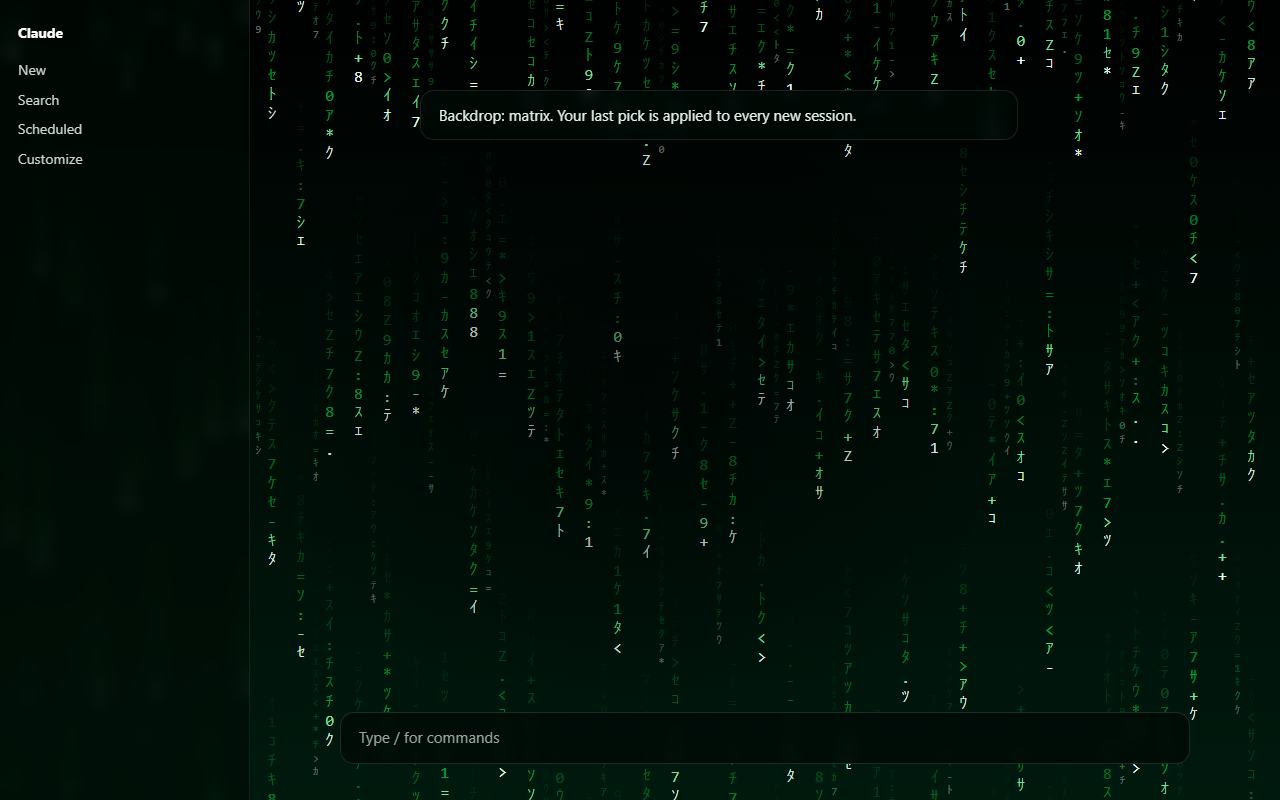
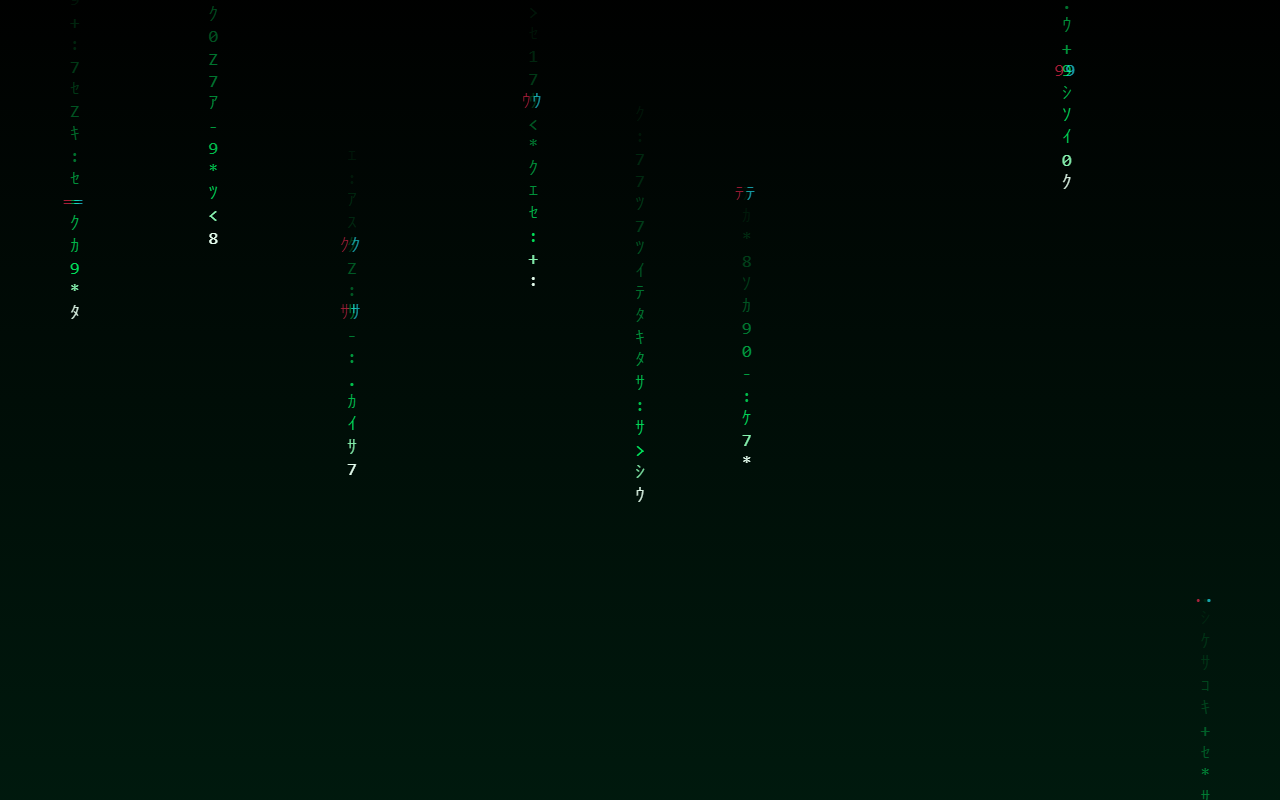
Matrix: CSS-driven falling streams, swap glitch, streams/glitch settings (0.3.0)

diff --git a/hooks/scenes.ts b/hooks/scenes.ts
@@ -114,92 +114,89 @@ ${embers.join('')}
 /* ───────────────────────────── MATRIX ───────────────────────────── */
 // A wide canvas, so a desktop window shows the whole field of code, not a magnified slice.
 // No scanlines, scan beam or tear bars: only falling code.
-export function matrix(swap = 0.2, seconds = 2): (tick: number) => string {
+export type Glitch = 'off' | 'low' | 'medium' | 'high'
+// How far the red and cyan ghosts sit from a character that has just swapped (px), and how long they last (s).
+const GLITCH = { low: [3, 0.4], medium: [5, 0.6], high: [8, 0.9] } as const
+const esc = (g: string) => (g === '<' ? '&lt;' : g === '>' ? '&gt;' : g)
+const hash = (n: number) => {
+  let x = Math.imul(n ^ 0x9e3779b9, 0x85ebca6b)
+  x ^= x >>> 13
+  x = Math.imul(x, 0xc2b2ae35)
+  x ^= x >>> 16
+  return (x >>> 0) / 4294967296
+}
+
+// A handful of code streams fall down the left, centre and right, and the picture animates
+// itself with CSS: nothing redraws it. A swap is a short cross-fade and, with glitch on, a red
+// and a cyan ghost that fade out within a fraction of a second.
+export function matrix(swap = 0.2, seconds = 2, glitch: Glitch = 'off', perZone = 3): string {
   const r = rng(5)
   const pool = [...'01ｱｲｳｴｵｶｷｸｹｺｻｼｽｾｿﾀﾁﾂﾃﾄ789Z:.=*+-<>']
-  const OP = ['.06', '.1', '.16', '.24', '.34', '.46', '.6', '.78']
+  const OP = ['.08', '.14', '.22', '.32', '.45', '.6', '.75', '.88']
   const W = 1200
   const H = 800
-  const SWAP = swap // share of body characters that change
-  const PHASES = Math.max(1, Math.round(seconds * 2)) // a tick is 500 ms, so each swapper changes every `seconds`, staggered
-  const GLYPHS = 8
+  const SIZE = 17
+  const STEP = SIZE + 4
+  const VARIANTS = 3 // glyphs a swapping cell cycles through
+  const PHASES = 5 // swaps are spread over this many moments in a cycle
+  const CYCLE = VARIANTS * seconds
+  const fade = Math.min(0.15, seconds / 4)
+  const fadeP = (fade / CYCLE) * 100
+  const winP = 100 / VARIANTS
+  const [offset, ghostSeconds] = glitch === 'off' ? [0, 0] : GLITCH[glitch]
+  const ghostP = (ghostSeconds / CYCLE) * 100
+  const attrs = `font-family="monospace" font-size="${SIZE}" text-anchor="middle"`
+  const pick = () => pool[Math.floor(r() * pool.length)]!
 
-  type Cell = { ch: string; fill: string; op: string; seq?: string[]; phase?: number }
-  type Column = { x: number; size: number; base: number; dim: number; cells: Cell[] }
+  // Left, centre and right: evenly spread inside each zone.
+  const spread = (from: number, to: number, n: number) => Array.from({ length: n }, (_, i) => Math.round(n === 1 ? (from + to) / 2 : from + ((to - from) * i) / (n - 1)))
+  const xs = [...spread(70, 330, perZone), ...spread(500, 700, perZone), ...spread(870, 1130, perZone)]
 
-  const col = (x: number, size: number, len: number, dim: number, swap: number, base: number): Column => {
-    const cells: Cell[] = []
+  let body = ''
+  xs.forEach((x, ci) => {
+    const len = 12 + Math.floor(r() * 7)
+    const fall = 10 + r() * 8 // seconds for one trip down the screen
+    const delay = -r() * fall
+    let still = ''
+    let swaps = ''
+    let ghosts = ''
     for (let i = 0; i < len; i++) {
-      let fill = '#00ff66'
-      let op = OP[Math.min(7, Math.floor((i / (len - 1)) * 8))]
-      if (i === len - 1) {
-        fill = '#e6fff0'
-        op = '1'
-      } else if (i === len - 2) {
-        fill = '#8dffb8'
-        op = '.9'
+      const y = i * STEP
+      const head = i === len - 1
+      const op = head ? '1' : i === len - 2 ? '.95' : OP[Math.min(7, Math.floor((i / (len - 2)) * 8))]!
+      const fill = head ? '#e6fff0' : i === len - 2 ? '#8dffb8' : '#00ff66'
+      if (!head && i < len - 2 && r() < swap) {
+        const phase = Math.floor(hash(ci * 977 + i * 13) * PHASES)
+        for (let v = 0; v < VARIANTS; v++) {
+          const g = esc(pick())
+          const d = (((v * seconds + (phase * seconds) / PHASES) % CYCLE) - CYCLE).toFixed(3)
+          swaps += `<text class="m" style="animation-delay:${d}s" x="${x}" y="${y}" fill="#00ff66" fill-opacity="${op}" ${attrs}>${g}</text>`
+          if (offset) {
+            // One element per ghost, red to the left and cyan to the right, so there are fewer things to animate.
+            ghosts += `<text class="g" style="animation-delay:${d}s" y="${y}" ${attrs}><tspan x="${x - offset}" fill="#ff2a55">${g}</tspan><tspan x="${x + offset}" fill="#22f0ff">${g}</tspan></text>`
+          }
+        }
+        continue
       }
-      const cell: Cell = { ch: pool[Math.floor(r() * pool.length)], fill, op }
-      if (i < len - 2 && r() < swap) {
-        cell.seq = Array.from({ length: GLYPHS }, () => pool[Math.floor(r() * pool.length)])
-        cell.phase = Math.floor(r() * PHASES)
-      }
-      cells.push(cell)
+      still += `<text x="${x}" y="${y}" fill="${fill}" fill-opacity="${op}" ${attrs}>${esc(pick())}</text>`
     }
-    return { x: Math.round(x), size, base: Math.round(base), dim, cells }
-  }
+    body += `<g class="f" style="animation-duration:${fall.toFixed(2)}s;animation-delay:${delay.toFixed(2)}s">${still}${swaps}${ghosts}</g>`
+  })
 
-  // Every column sits in a fixed lane and each lane is filled top to bottom with
-  // streams that never touch, so nothing overlaps and no corner stays empty. The dim
-  // small lanes sit halfway between the bright ones, clear of their glyphs.
-  const LANE = 27
-  const lane = (x: number, size: number, dim: number, swap: number, lenMin: number, lenVar: number, gapMin: number, gapVar: number): Column[] => {
-    const out: Column[] = []
-    const step = size + 3
-    let y = -r() * 160
-    while (y < H) {
-      const len = lenMin + Math.floor(r() * lenVar)
-      out.push(col(x, size, len, dim, swap, y))
-      y += (len - 1) * step + gapMin + r() * gapVar + step
-    }
-    return out
-  }
-
-  const back: Column[] = []
-  for (let i = 0; i < 22; i++) back.push(...lane(12 + LANE * (2 * i) + LANE / 2, 10, 0.4, 0, 10, 6, 90, 220))
-  const front: Column[] = []
-  for (let i = 0; i < 44; i++) front.push(...lane(12 + i * LANE, 15, 1, SWAP, 8, 6, 70, 180))
-
-  // One <text> per stream: its x and dy lists place every glyph, so each <tspan> only
-  // carries its own opacity (and a colour for the two bright head glyphs).
-  const draw = (c: Column, tick: number): string => {
-    const step = c.size + 3
-    const n = c.cells.length
-    let tsp = ''
-    c.cells.forEach(cell => {
-      let ch = cell.ch
-      if (cell.seq) {
-        // glyph advances once every PHASES ticks, offset by the cell's own phase
-        const k = tick < cell.phase! ? 0 : Math.floor((tick - cell.phase!) / PHASES) + 1
-        ch = cell.seq[k % GLYPHS]
-      }
-      const colour = cell.fill === '#00ff66' ? '' : ` fill="${cell.fill}"`
-      tsp += `<tspan${colour} fill-opacity="${cell.op}">${ch}</tspan>`
-    })
-    const xs = Array(n).fill(c.x).join(' ')
-    const dys = Array.from({ length: n }, (_, i) => (i === 0 ? 0 : step)).join(' ')
-    return `<text x="${xs}" y="${c.base}" dy="${dys}" opacity="${c.dim}" fill="#00ff66" font-family="monospace" font-size="${c.size}" text-anchor="middle">${tsp}</text>`
-  }
-
-  const head = `<svg xmlns="http://www.w3.org/2000/svg" viewBox="0 0 ${W} ${H}" preserveAspectRatio="xMidYMid slice">
+  return `<svg xmlns="http://www.w3.org/2000/svg" viewBox="0 0 ${W} ${H}" preserveAspectRatio="xMidYMid slice">
+<style>
+.f{animation:fall 12s linear infinite;will-change:transform}
+text{text-rendering:optimizeSpeed}
+.m{opacity:0;animation:m ${CYCLE}s linear infinite}
+.g{opacity:0;animation:g ${CYCLE}s linear infinite}
+@keyframes fall{from{transform:translateY(-${20 * STEP}px)}to{transform:translateY(${H + 40}px)}}
+@keyframes m{0%{opacity:0}${fadeP.toFixed(3)}%{opacity:1}${winP.toFixed(3)}%{opacity:1}${(winP + fadeP).toFixed(3)}%{opacity:0}100%{opacity:0}}
+@keyframes g{0%{opacity:1;transform:translateX(0)}${(ghostP * 0.25).toFixed(3)}%{opacity:1;transform:translateX(3px)}${(ghostP * 0.5).toFixed(3)}%{opacity:.8;transform:translateX(-3px)}${(ghostP * 0.75).toFixed(3)}%{opacity:.4;transform:translateX(1px)}${ghostP.toFixed(3)}%{opacity:0;transform:translateX(0)}100%{opacity:0}}
+</style>
 <defs>
 <linearGradient id="bg" x1="0" y1="0" x2="0" y2="1"><stop offset="0" stop-color="#000"/><stop offset="1" stop-color="#001a0e"/></linearGradient>
-<radialGradient id="vig" cx=".5" cy=".5" r=".5"><stop offset="0" stop-color="#000" stop-opacity=".5"/><stop offset="1" stop-color="#000" stop-opacity="0"/></radialGradient>
 </defs>
-<rect width="${W}" height="${H}" fill="url(#bg)"/>`
-  const tail = `<ellipse cx="${W / 2}" cy="${H / 2}" rx="${W * 0.3}" ry="${H * 0.4}" fill="url(#vig)"/></svg>`
-
-  return tick => head + back.map(c => draw(c, tick)).join('') + front.map(c => draw(c, tick)).join('') + tail
+<rect width="${W}" height="${H}" fill="url(#bg)"/>${body}</svg>`
 }
 
 /* ───────────────────────────── STORM ───────────────────────────── */
@@ -352,7 +349,7 @@ ${pines.join('')}
 
 export const SCENES: Record<string, Scene> = {
   forge: { label: 'Forge: embers, lava glow and smoke', svg: forge(), glass: { blur: 8, tint: '#120704', opacity: 0.35 } },
-  matrix: { label: 'Matrix: green code with changing characters', render: matrix(), glass: { blur: 8, tint: '#000a05', opacity: 0.4 } },
+  matrix: { label: 'Matrix: green code with changing characters', svg: matrix(), glass: { blur: 8, tint: '#000a05', opacity: 0.4 } },
   storm: { label: 'Storm: rain, lightning and dark clouds', svg: storm(), glass: { blur: 8, tint: '#080c12', opacity: 0.35 } },
   'night-sky': { label: 'Night sky: stars and shooting stars', svg: nightSky(), glass: { blur: 8, tint: '#070a22', opacity: 0.35 } },
 }

diff --git a/hooks/register.tsx b/hooks/register.tsx
@@ -1,30 +1,15 @@
-import type { EngineInterface, Register, Timer } from 'claude-code'
+import type { EngineInterface, Register } from 'claude-code'
 
 import { COLORS } from './palettes.js'
-import { matrix, ORDER, SCENES as DEFAULT_SCENES } from './scenes.js'
+import { matrix, ORDER, type Glitch, SCENES as DEFAULT_SCENES } from './scenes.js'
 
 let SCENES = DEFAULT_SCENES
 
+// Matrix streams per zone (left, centre, right).
+const DENSITY: Record<string, number> = { sparse: 2, normal: 3, dense: 4 }
+
 const KEY = 'current'
 const DEFAULT = 'forge'
-
-// The app draws a backdrop as a still picture, so a scene that changes is redrawn on a slow timer.
-const TICK_MS = 500
-let tick = 0
-let timer: Timer | undefined
-
-function startTimer($: EngineInterface) {
-  timer?.cancel()
-  timer = $.clock.every(TICK_MS, () => {
-    tick += 1
-    $.ui.invalidate('ui.render')
-  })
-}
-
-function stopTimer() {
-  timer?.cancel()
-  timer = undefined
-}
 
 async function apply($: EngineInterface, name: string) {
   const set = await $.theme.set({
@@ -33,8 +18,6 @@ async function apply($: EngineInterface, name: string) {
     overrideColorScheme: 'dark',
   })
   await $.store.set(KEY, name)
-  if (SCENES[name].render) startTimer($)
-  else stopTimer()
   return set
 }
 
@@ -42,7 +25,8 @@ export const register: Register = (on, options) => {
   // Pickers from userConfig: '2s' and '20%' style strings; an unknown value falls back to the default.
   const seconds = parseFloat(String(options.changeEvery)) || 2
   const share = (parseFloat(String(options.changeShare)) || 20) / 100
-  SCENES = { ...DEFAULT_SCENES, matrix: { ...DEFAULT_SCENES.matrix!, render: matrix(share, seconds) } }
+  const glitch = (['off', 'low', 'medium', 'high'].includes(String(options.glitch)) ? options.glitch : 'medium') as Glitch
+  SCENES = { ...DEFAULT_SCENES, matrix: { ...DEFAULT_SCENES.matrix!, svg: matrix(share, seconds, glitch, DENSITY[String(options.density)] ?? DENSITY.normal!) } }
 
   on('session.start', async ($, e, next) => {
     await $.command.register({
@@ -65,7 +49,6 @@ export const register: Register = (on, options) => {
     if (arg === 'list') return { text: `Backdrops:\n${list}\n\nUse /backdrop <name>, /backdrop next, or /backdrop off.` }
 
     if (arg === 'off') {
-      stopTimer()
       await $.theme.clear()
       await $.store.set(KEY, 'off')
       return { text: 'Backdrop removed.' }
@@ -87,6 +70,6 @@ export const register: Register = (on, options) => {
     if (e.props.plugin !== $.plugin.name || !scene) return next(e)
     if (e.surface !== 'desktop' && e.surface !== 'mobile') return next(e)
     const { Svg } = $.ui.resolve(e)
-    return <Svg source={scene.render ? scene.render(tick) : scene.svg!} alt={scene.label} isInteractive />
+    return <Svg source={scene.svg!} alt={scene.label} isInteractive />
   })
 }

diff --git a/README.md b/README.md
@@ -18,7 +18,7 @@
 <img src="docs/forge.gif" alt="forge" width="360"> <img src="docs/storm.gif" alt="storm" width="360"> <img src="docs/night-sky.gif" alt="night sky" width="360">
 </details>
 
-> Previews are rendered from the mod's own scenes in a mock window, not screenshots of the app.
+> Previews are rendered from the mod's own scenes, not screenshots of the app.
 
 ## Install
 
@@ -47,21 +47,24 @@ claude plugin install backdrops --marketplace hzqdev30/claude-bd-matrix
 
 ## Customize
 
-The matrix backdrop has two settings:
+The matrix backdrop has four settings:
 
 | Setting | What it does | Choices | Default |
 | :-- | :-- | :-- | :-- |
-| **Change interval** (`changeEvery`) | How often a changing character swaps to a new one | `1s` `2s` `3s` `5s` `10s` | `2s` |
-| **Share that changes** (`changeShare`) | How much of the bright code keeps changing: low is calm, high is busy | `5%` `10%` `20%` `35%` `50%` `75%` | `20%` |
+| **Streams** (`density`) | How many streams of code fall on each of the left, centre and right | `sparse` (2) `normal` (3) `dense` (4) | `normal` |
+| **Change interval** (`changeEvery`) | How long a changing character shows each glyph before it swaps | `1s` `2s` `3s` `5s` `10s` | `2s` |
+| **Share that changes** (`changeShare`) | How much of each stream keeps changing: low is calm, high is busy | `5%` `10%` `20%` `35%` `50%` `75%` | `20%` |
+| **Glitch** (`glitch`) | A red and cyan ghost flashes on a character as it swaps | `off` `low` `medium` `high` | `medium` |
 
 Set them on the screen shown while you install the plugin. To change them later, use the plugin's settings row (`/config` in a terminal session). The values are stored under `pluginConfigs` in your `settings.json`, and a change reloads the mod.
 
-Changes apply the next time the matrix backdrop is drawn, so run `/backdrop matrix` once after a change to see it.
+After a change, switch away and back to see it: run `/backdrop forge`, then `/backdrop matrix`. Re-selecting the backdrop you are already on may keep showing the old picture.
 
-Characters swap on a 0.5 second grid, so the shortest interval is 1s. Only the bright front columns change. The dim back columns stay still, which is why `20%` moves roughly one in ten of all characters on screen.
+Glitch strength: `low` is a 3 px ghost for 0.4 s, `medium` is 5 px for 0.6 s and `high` is 8 px for 0.9 s. The glitch only touches characters that are swapping.
 
 ## Notes
 
 - Your last pick is saved and applied at the start of every new session.
 - Backdrops draw on the desktop and mobile apps only, not in a plain terminal.
-- Moving scenes redraw twice a second. Rain, embers and stars use CSS animation and respect reduced-motion settings.
+- Every backdrop animates itself with CSS, so the mod never redraws the picture. That keeps motion smooth and the load low.
+- An Svg picture may hold at most 131,072 characters. The default matrix is about 50,000.
